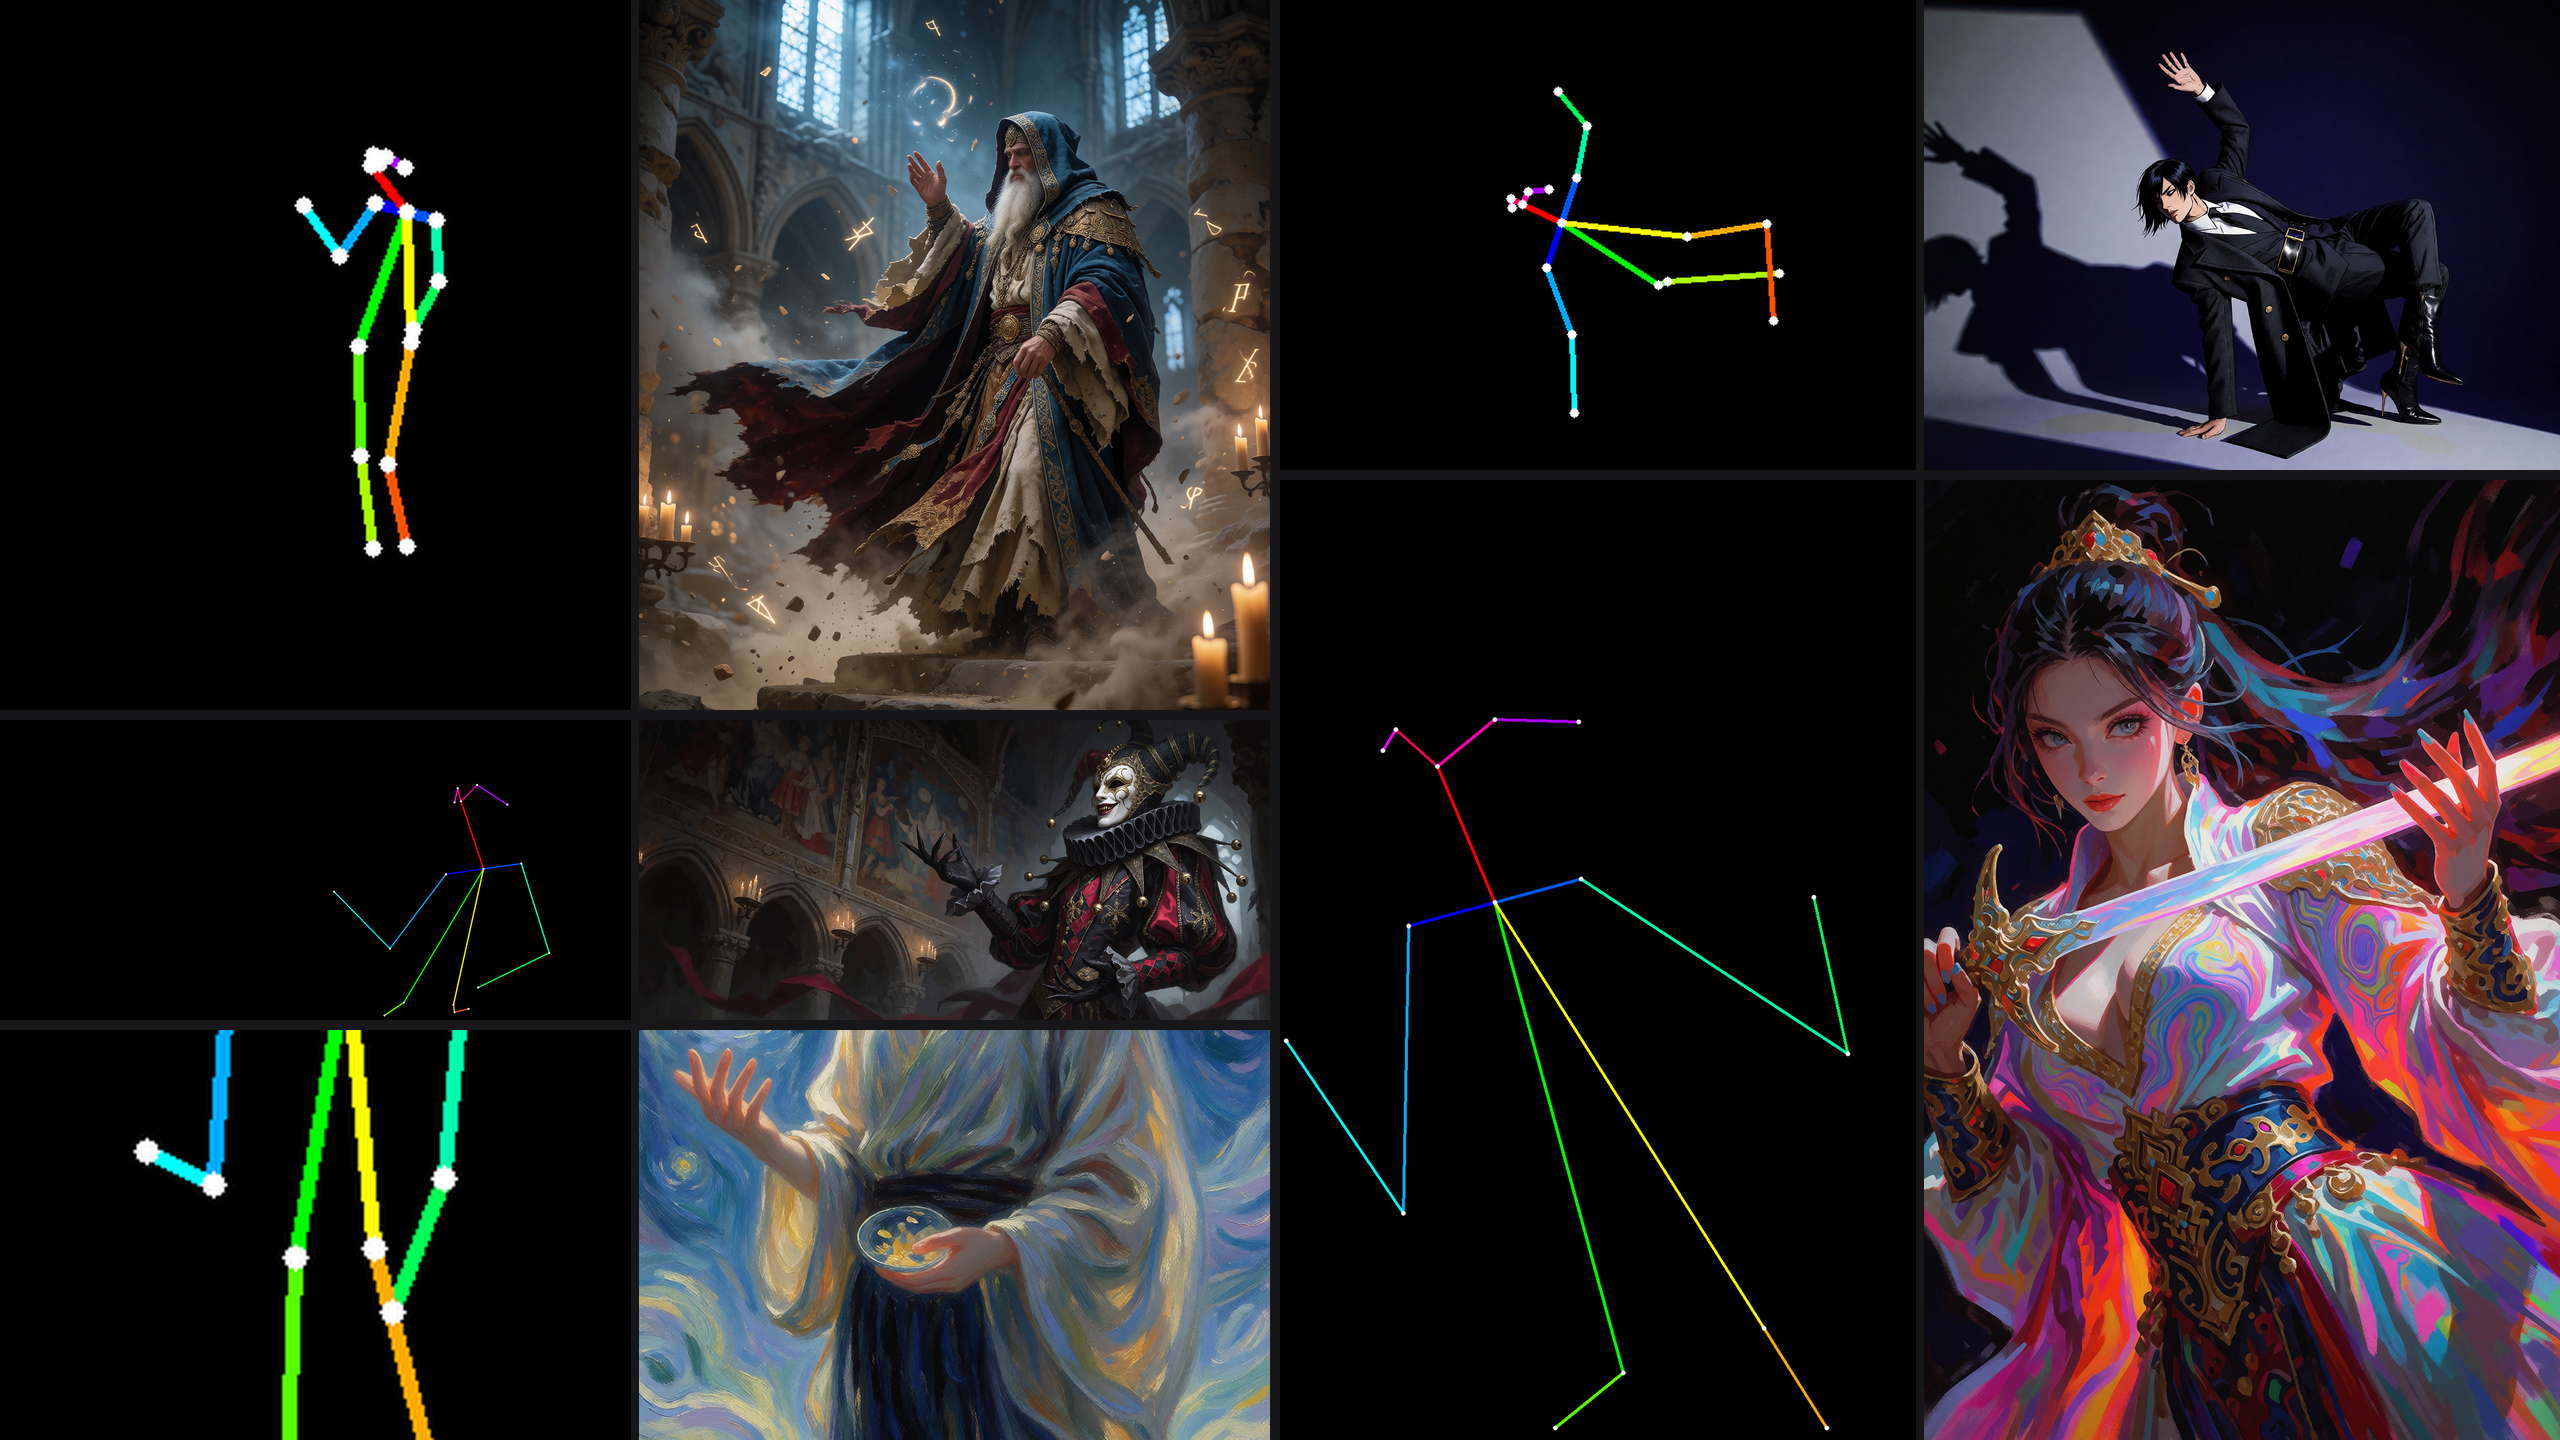
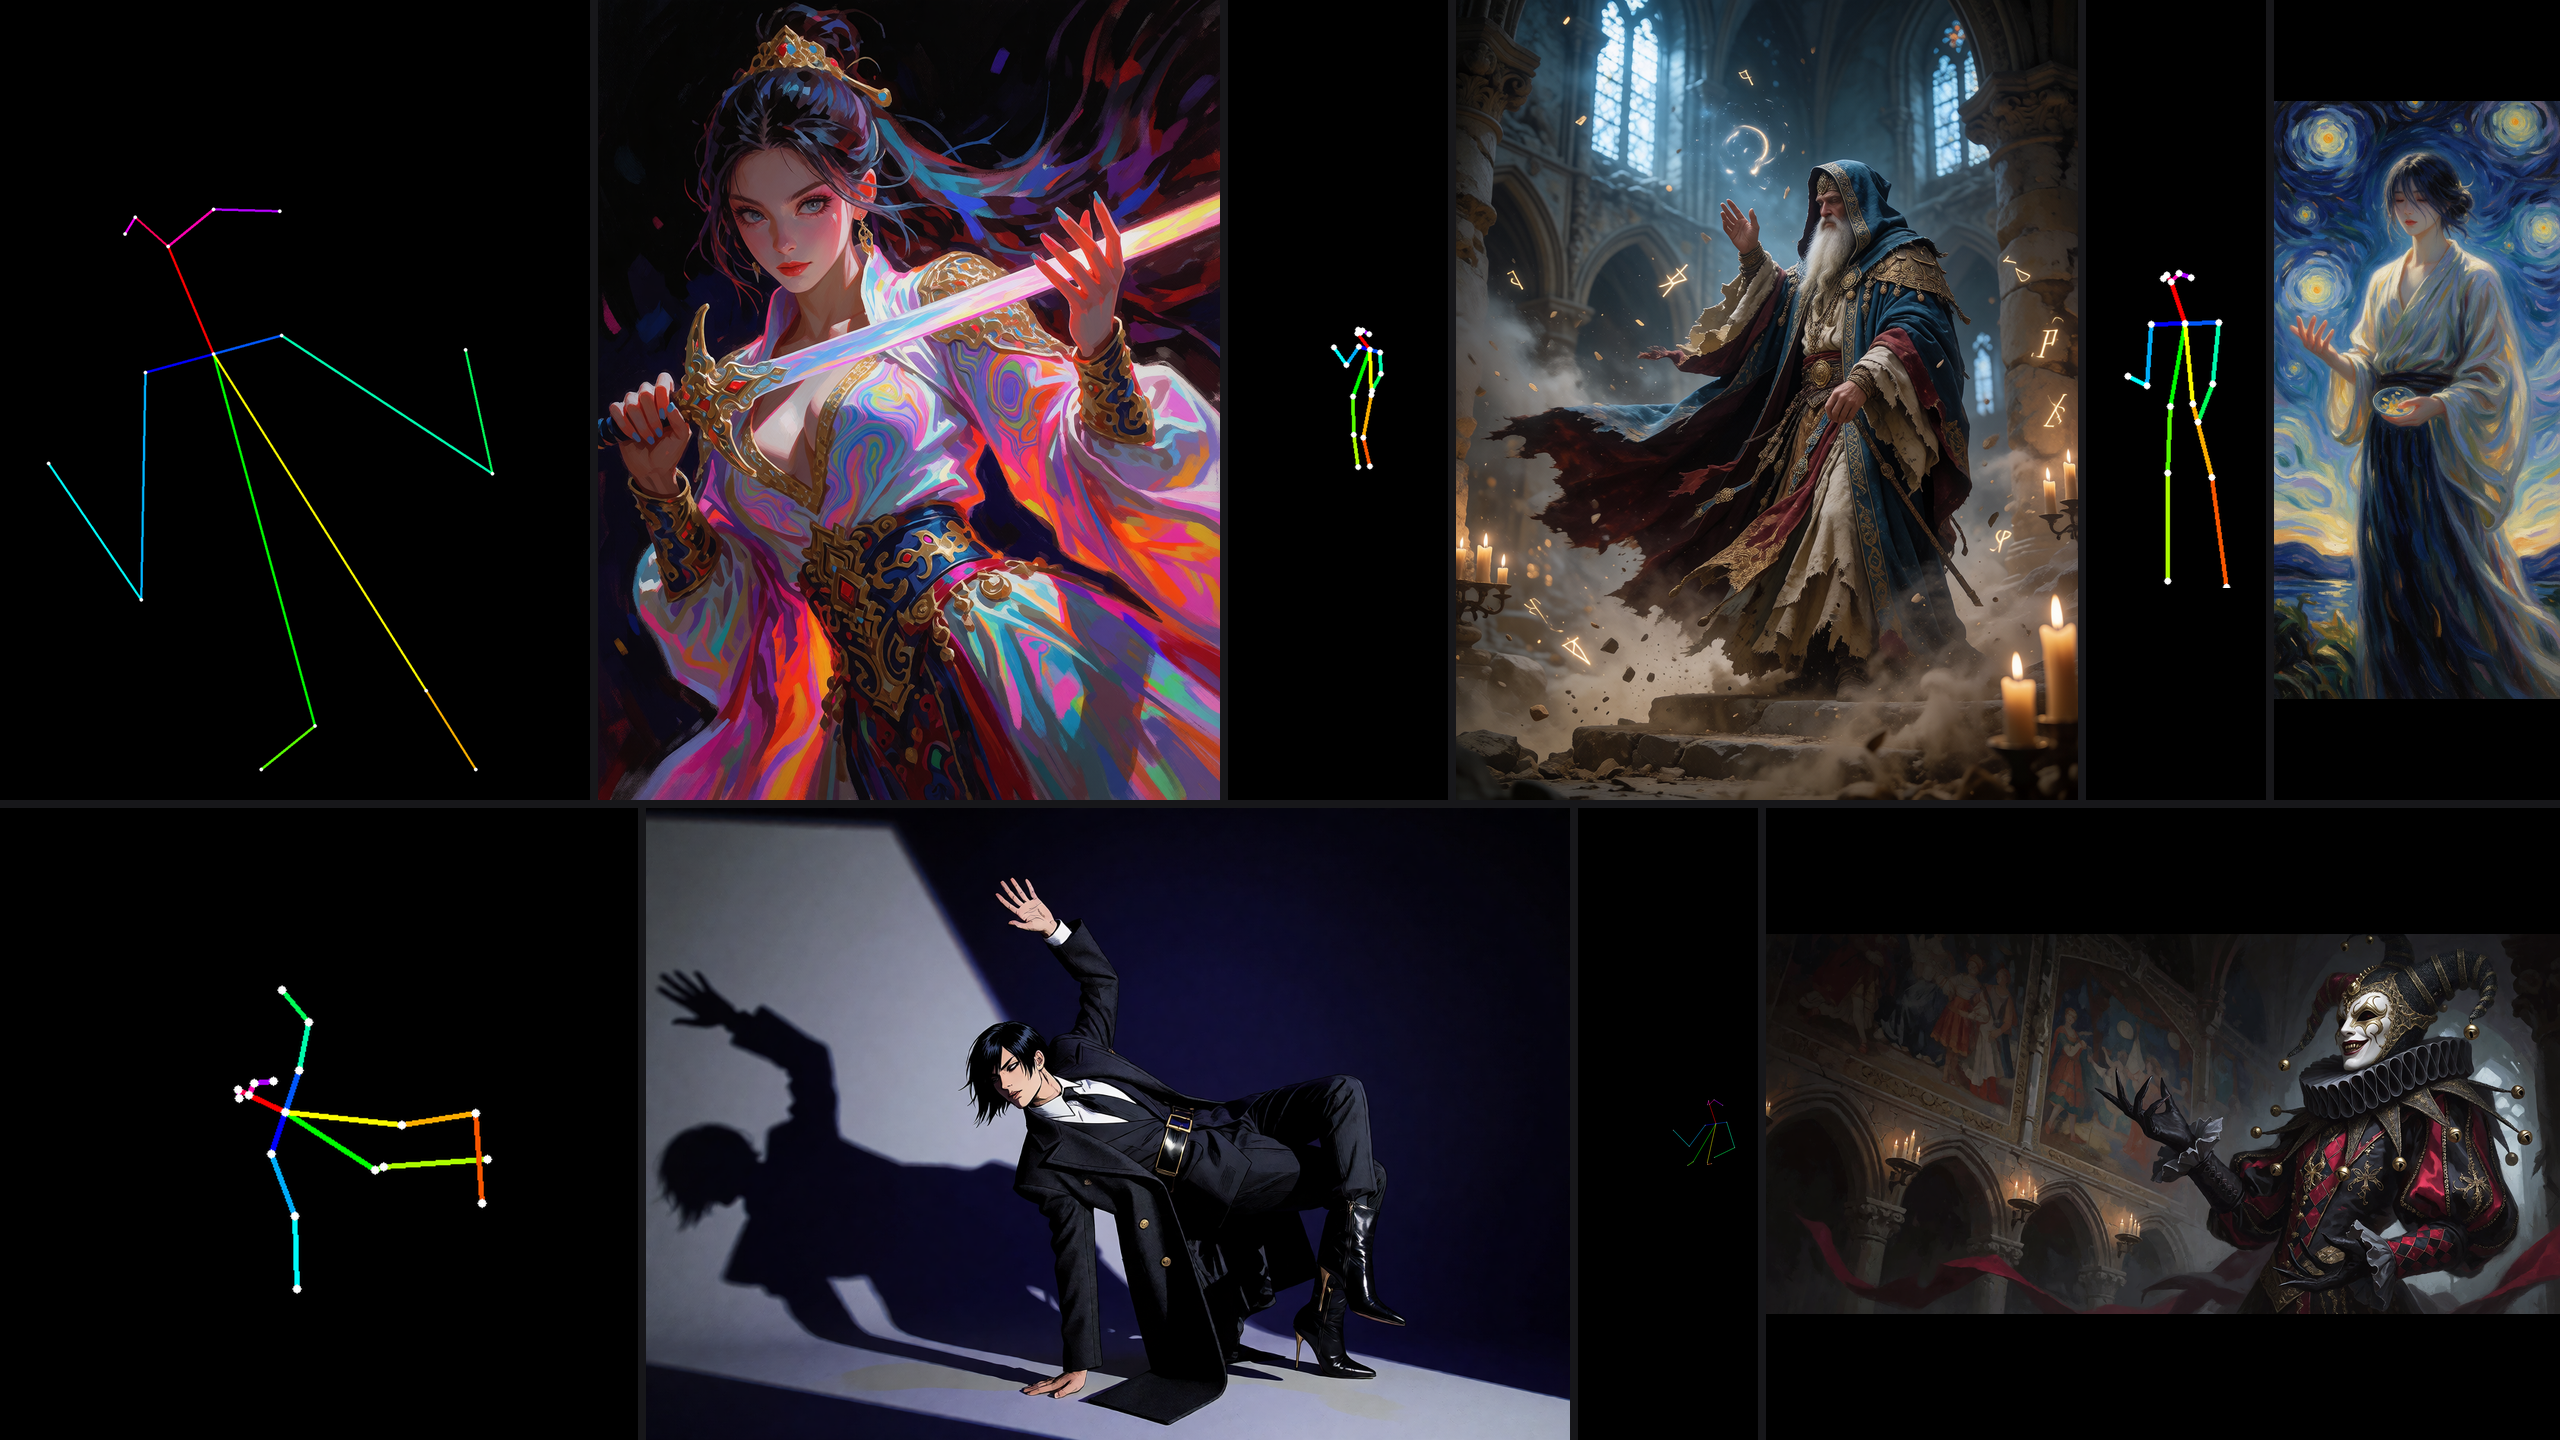
Refine final showcase collage

diff --git a/scripts/build_final_showcase_collage.py b/scripts/build_final_showcase_collage.py
@@ -198,10 +198,19 @@ def write_json(path: Path, value: Mapping[str, Any]) -> None:
     os.replace(temporary, path)
 
 
-def paste_fit(canvas: Image.Image, source: Path, box: tuple[int, int, int, int]) -> None:
+def paste_contain(canvas: Image.Image, source: Path, box: tuple[int, int, int, int]) -> None:
+    """Paste an uncropped source into a panel, padding rather than distorting.
+
+    The showcase is a layout of attached pairs, not a reason to reframe the
+    generated artwork.  A black panel backing makes any necessary letterbox or
+    pillarbox part of the pair while retaining every source pixel.
+    """
     image = Image.open(source).convert("RGB")
-    fitted = ImageOps.fit(image, (box[2], box[3]), method=Image.Resampling.LANCZOS, centering=(0.5, 0.5))
-    canvas.paste(fitted, (box[0], box[1]))
+    panel = Image.new("RGB", (box[2], box[3]), "#000000")
+    fitted = ImageOps.contain(image, panel.size, method=Image.Resampling.LANCZOS)
+    offset = ((panel.width - fitted.width) // 2, (panel.height - fitted.height) // 2)
+    panel.paste(fitted, offset)
+    canvas.paste(panel, (box[0], box[1]))
 
 
 def font(size: int) -> ImageFont.ImageFont:
@@ -217,21 +226,25 @@ def font(size: int) -> ImageFont.ImageFont:
 def build_collage(contract: Mapping[str, Any], labeled: bool) -> Image.Image:
     """Build a dense editorial canvas from five inseparable pose/image pairs.
 
-    Each block is a left condition and right generation with identical framing.
+    Each block is a left condition and right generation.  Panels contain their
+    sources instead of cropping them: preserving a pose, silhouette, and the
+    generated composition takes priority over filling a mismatched rectangle.
     The varying block sizes create hierarchy without leaving a separate control
     tile or a presentation-artboard region.
     """
     canvas = Image.new("RGB", (2560, 1440), "#17171a")
     draw = ImageDraw.Draw(canvas)
     entries = {entry["concept"]: entry for entry in contract["winners"]}
-    # x, y, width, height. The 10 px gaps are the only exposed canvas.
-    # Areas: swordswoman 33%, mage 24%, comic 16%, starry night 14%, jester 10%.
+    # x, y, width, height. The 8 px gaps are the only exposed canvas.
+    # Reading order deliberately begins with the upper-left swordswoman pair.
+    # Source-aspect-friendly blocks make the largest artwork read first, while
+    # containment protects full figures, props, sky, cathedral, and shadows.
     pair_blocks = {
-        "fantasy_mage": (0, 0, 1270, 710),
-        "comic_fashion": (1280, 0, 1280, 470),
-        "female_swordswoman_psychedelic": (1280, 480, 1280, 960),
-        "dark_fantasy_jester": (0, 720, 1270, 300),
-        "starry_night_painterly": (0, 1030, 1270, 410),
+        "female_swordswoman_psychedelic": (0, 0, 1220, 800),
+        "fantasy_mage": (1228, 0, 850, 800),
+        "starry_night_painterly": (2086, 0, 474, 800),
+        "comic_fashion": (0, 808, 1570, 632),
+        "dark_fantasy_jester": (1578, 808, 982, 632),
     }
     labels = {
         "fantasy_mage": "Fantasy mage",
@@ -243,11 +256,23 @@ def build_collage(contract: Mapping[str, Any], labeled: bool) -> Image.Image:
     pair_gap = 8
     for concept, (x, y, width, height) in pair_blocks.items():
         entry = entries[concept]
-        panel_width = (width - pair_gap) // 2
-        condition_box = (x, y, panel_width, height)
-        generation_box = (x + panel_width + pair_gap, y, width - panel_width - pair_gap, height)
-        paste_fit(canvas, ROOT / entry["condition_path"], condition_box)
-        paste_fit(canvas, ROOT / entry["generation_path"], generation_box)
+        # Allocate the generation panel first.  Unlike the sparse black pose
+        # render, its aspect carries the actual artwork; giving it its native
+        # width wherever the pair permits minimizes letterboxing without ever
+        # cropping.  The condition remains a visibly attached left panel.
+        generation = Image.open(ROOT / entry["generation_path"])
+        generation_aspect = generation.width / generation.height
+        available_width = width - pair_gap
+        minimum_condition_width = min(180, available_width // 2)
+        generation_width = min(
+            round(height * generation_aspect),
+            available_width - minimum_condition_width,
+        )
+        condition_width = available_width - generation_width
+        condition_box = (x, y, condition_width, height)
+        generation_box = (x + condition_width + pair_gap, y, generation_width, height)
+        paste_contain(canvas, ROOT / entry["condition_path"], condition_box)
+        paste_contain(canvas, ROOT / entry["generation_path"], generation_box)
         if labeled:
             text = labels[concept]
             padding = 8

diff --git a/tests/test_build_final_showcase_collage.py b/tests/test_build_final_showcase_collage.py
@@ -1,0 +1,40 @@
+"""Deterministic contract checks for the frozen public hero showcase."""
+from __future__ import annotations
+
+import importlib.util
+import unittest
+from pathlib import Path
+
+
+SCRIPT = Path(__file__).resolve().parents[1] / "scripts/build_final_showcase_collage.py"
+SPEC = importlib.util.spec_from_file_location("build_final_showcase_collage", SCRIPT)
+assert SPEC is not None and SPEC.loader is not None
+MODULE = importlib.util.module_from_spec(SPEC)
+SPEC.loader.exec_module(MODULE)
+
+
+class FinalShowcaseContractTest(unittest.TestCase):
+    def test_frozen_winner_selection_and_assets(self) -> None:
+        contract = MODULE.build_contract()
+        MODULE.verify_contract(contract)
+        winners = {item["concept"]: item for item in contract["winners"]}
+        self.assertEqual(
+            {concept: item["selected_variant"] for concept, item in winners.items()},
+            {
+                "fantasy_mage": "hero_variant_b",
+                "dark_fantasy_jester": "original_accepted",
+                "comic_fashion": "hero_variant_b",
+                "female_swordswoman_psychedelic": "original_accepted",
+                "starry_night_painterly": "hero_variant_a",
+            },
+        )
+        self.assertEqual(len(contract["metadata"]["alternates"]), 4)
+
+    def test_prompting_guide_uses_frozen_winner_prompts(self) -> None:
+        guide = (Path(__file__).resolve().parents[1] / "prompting.md").read_text(encoding="utf-8")
+        for winner in MODULE.build_contract()["winners"]:
+            self.assertIn(winner["prompt"], guide)
+
+
+if __name__ == "__main__":
+    unittest.main()

diff --git a/docs/CODEX_HANDOFF.md b/docs/CODEX_HANDOFF.md
@@ -2,11 +2,11 @@
 
 ## Current objective
 
-The frozen final public hero-v1 showcase package has received its final visual
-cleanup. The public/review collages are ready for the README showcase update.
-Do not modify frozen release settings, benchmark artifacts, winner metadata,
-training/evaluation code, checkpoints, or evaluation claims as part of that
-documentation work.
+The final hero-v1 collage correction is complete. The public/review collages
+now use uncropped, aspect-preserving artwork and lead with the psychedelic
+swordswoman pair. Do not modify frozen release settings, benchmark artifacts,
+winner metadata, prompts, training/evaluation code, checkpoints, or evaluation
+claims as part of showcase documentation work.
 
 ## Definitive public winners
 
@@ -29,12 +29,14 @@ The selection is recorded in
 - Prompt guide: `prompting.md`
 
 The builder reads winner provenance from frozen manifests and copied sidecars.
-It only performs crop/resize/composition on the existing condition and
-generation images. The final 2560×1440 editorial layout consists exclusively
-of five attached `[condition | generation]` pairs: condition on the left,
-generation on the right, with matched panel framing. It has no public labels,
-no floating control tiles, and 1.43% exposed dark gutter area. The labeled
-variant has the identical geometry and one small concept label per pair.
+It only composes the existing condition and generation images. The final
+2560×1440 editorial layout consists exclusively of five attached
+`[condition | generation]` pairs, with condition on the left and generation on
+the right. The upper-left, first-read, dominant pair is the psychedelic
+swordswoman. All panels use aspect-preserving containment on black rather than
+crop or distortion, so generation composition and every skeleton keypoint are
+preserved. It has no public labels or floating control tiles; the labeled
+variant has identical geometry and one small concept label per pair.
 
 `prompting.md` retains its core rule, reusable recipe, control/scale guidance,
 frozen examples, conflicting-prompt example, pasteable LLM instruction, and
@@ -53,22 +55,22 @@ UV_CACHE_DIR=/tmp/krea2-uv-cache uv run python -m unittest tests.test_build_fina
 ```
 
 Additional local verification confirmed both output PNGs exist, are RGB
-2560×1440 landscape images, and have a 1.43% uncovered canvas fraction;
-`prompting.md` has no `[svg]` or `**svg**` artifacts; all repository-relative
-Markdown links in the guide resolve; and `git diff --check` passes. Both PNGs
-were visually inspected for attached pairs, hierarchy, labels, and whitespace.
+2560×1440 landscape images. Both were visually inspected: all five pairs are
+attached and condition-left; the swordswoman is first and upper-left; source
+content is fully visible without distortion; starry-night retains its full
+figure and sky; mage, comic, swordswoman, and jester retain their intended
+composition. `git diff --check` passes.
 
 ## Files changed this session
 
 - `scripts/build_final_showcase_collage.py`
 - `docs/showcase/final/hero-v1/final_showcase_collage.png`
 - `docs/showcase/final/hero-v1/final_showcase_collage_labeled.png`
-- `prompting.md`
 - `docs/CODEX_HANDOFF.md`
 
 No GPU-dependent work remains. No commit or push was performed.
 
 ## Next recommended action
 
-Review the final public collage in the README showcase update, then stage and
-commit the existing repository changes when ready.
+Review the corrected public collage, then stage and commit the existing
+repository changes when ready.
